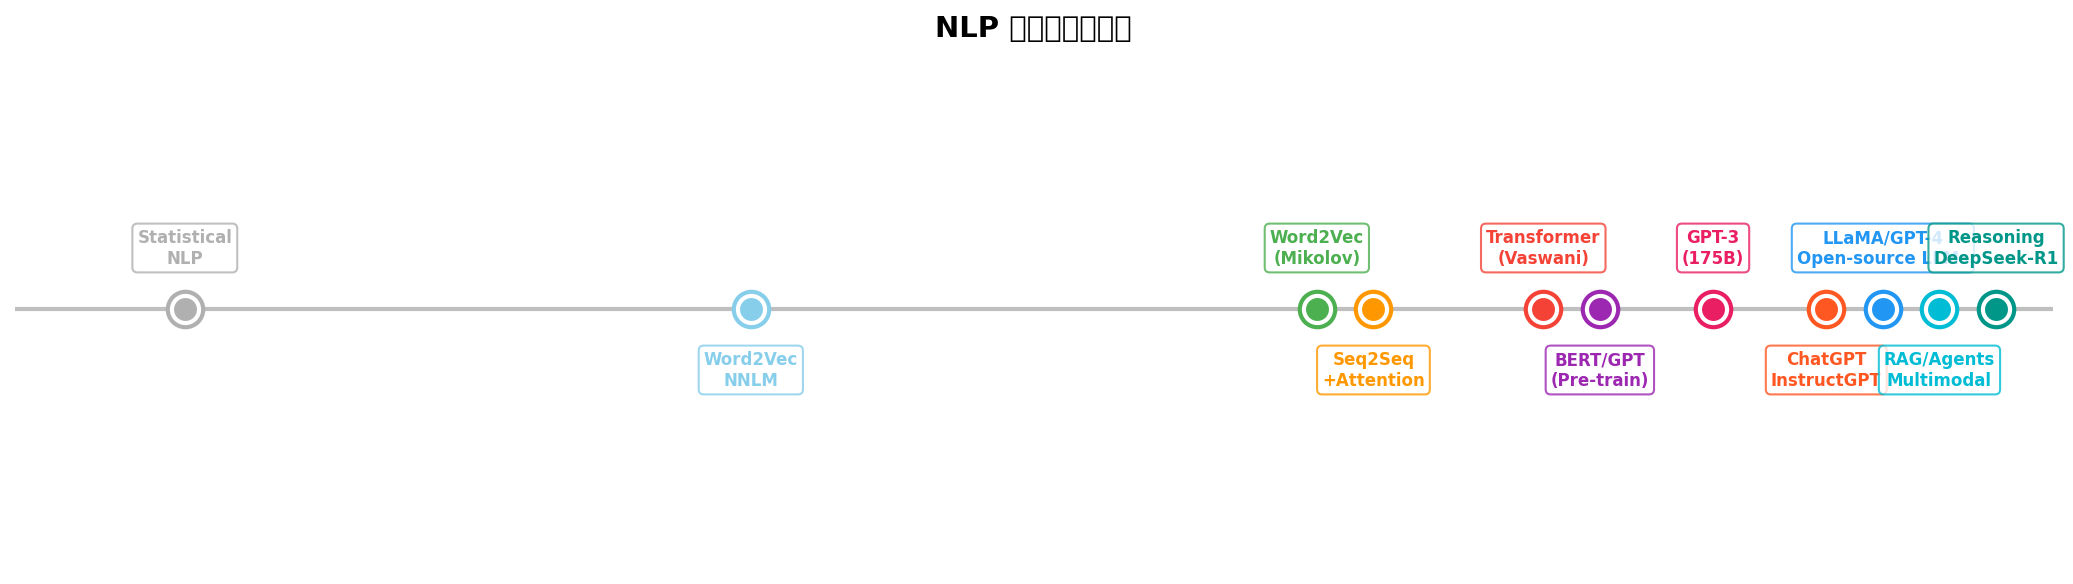
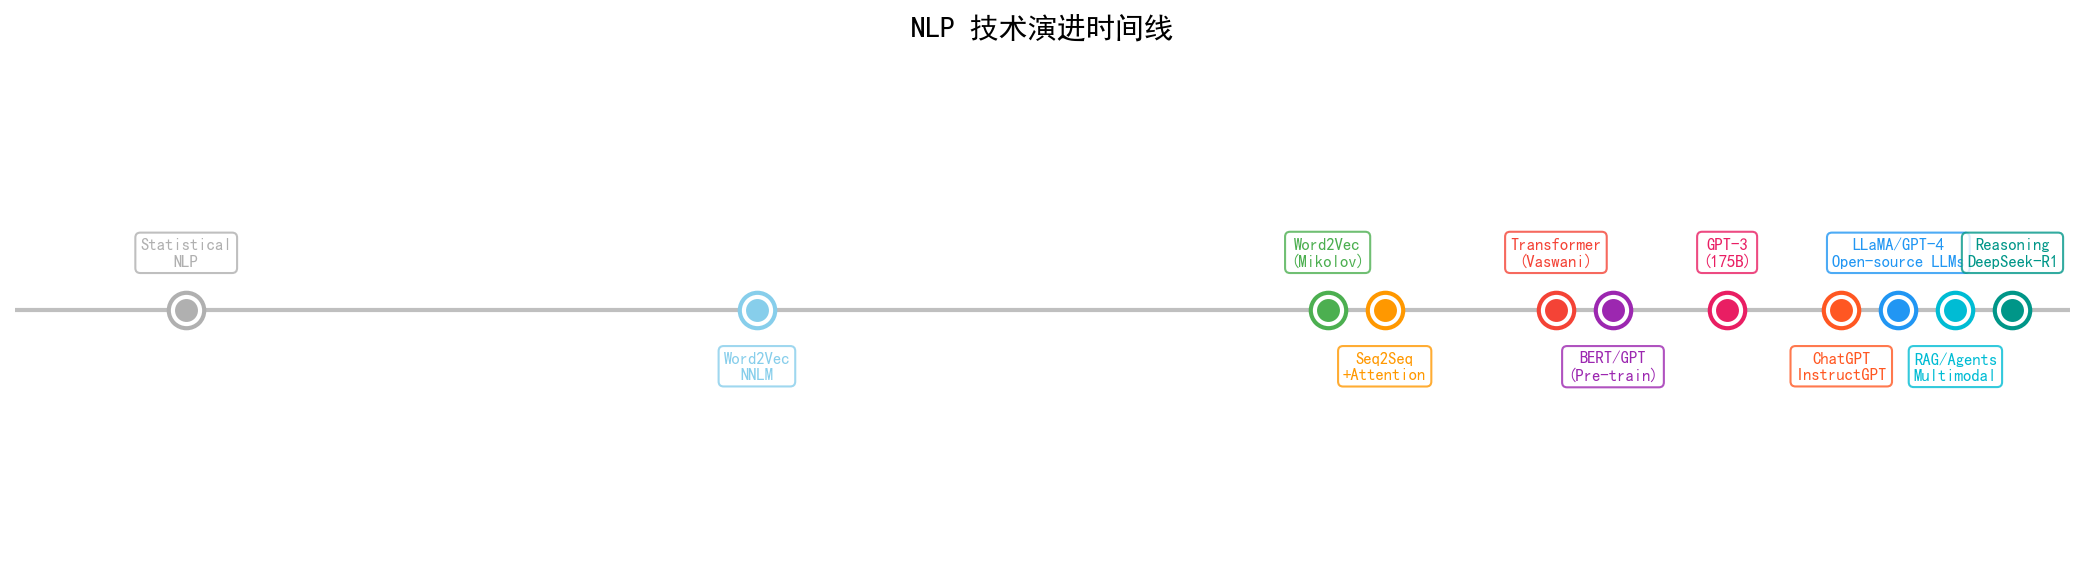
fix: fig_timeline中文字体修复(SimHei)

diff --git a/08-NLP学习笔记/gen_figures.py b/08-NLP学习笔记/gen_figures.py
@@ -7,6 +7,10 @@ import matplotlib.pyplot as plt
 import matplotlib.patches as mpatches
 import numpy as np
 
+# 设置中文字体
+plt.rcParams['font.sans-serif'] = ['SimHei']
+plt.rcParams['axes.unicode_minus'] = False
+
 OUT = r"C:\Users\29503\Desktop\AI学习笔记\08-NLP学习笔记"
 
 # ─── 1. NLP 技术演进时间线 ───